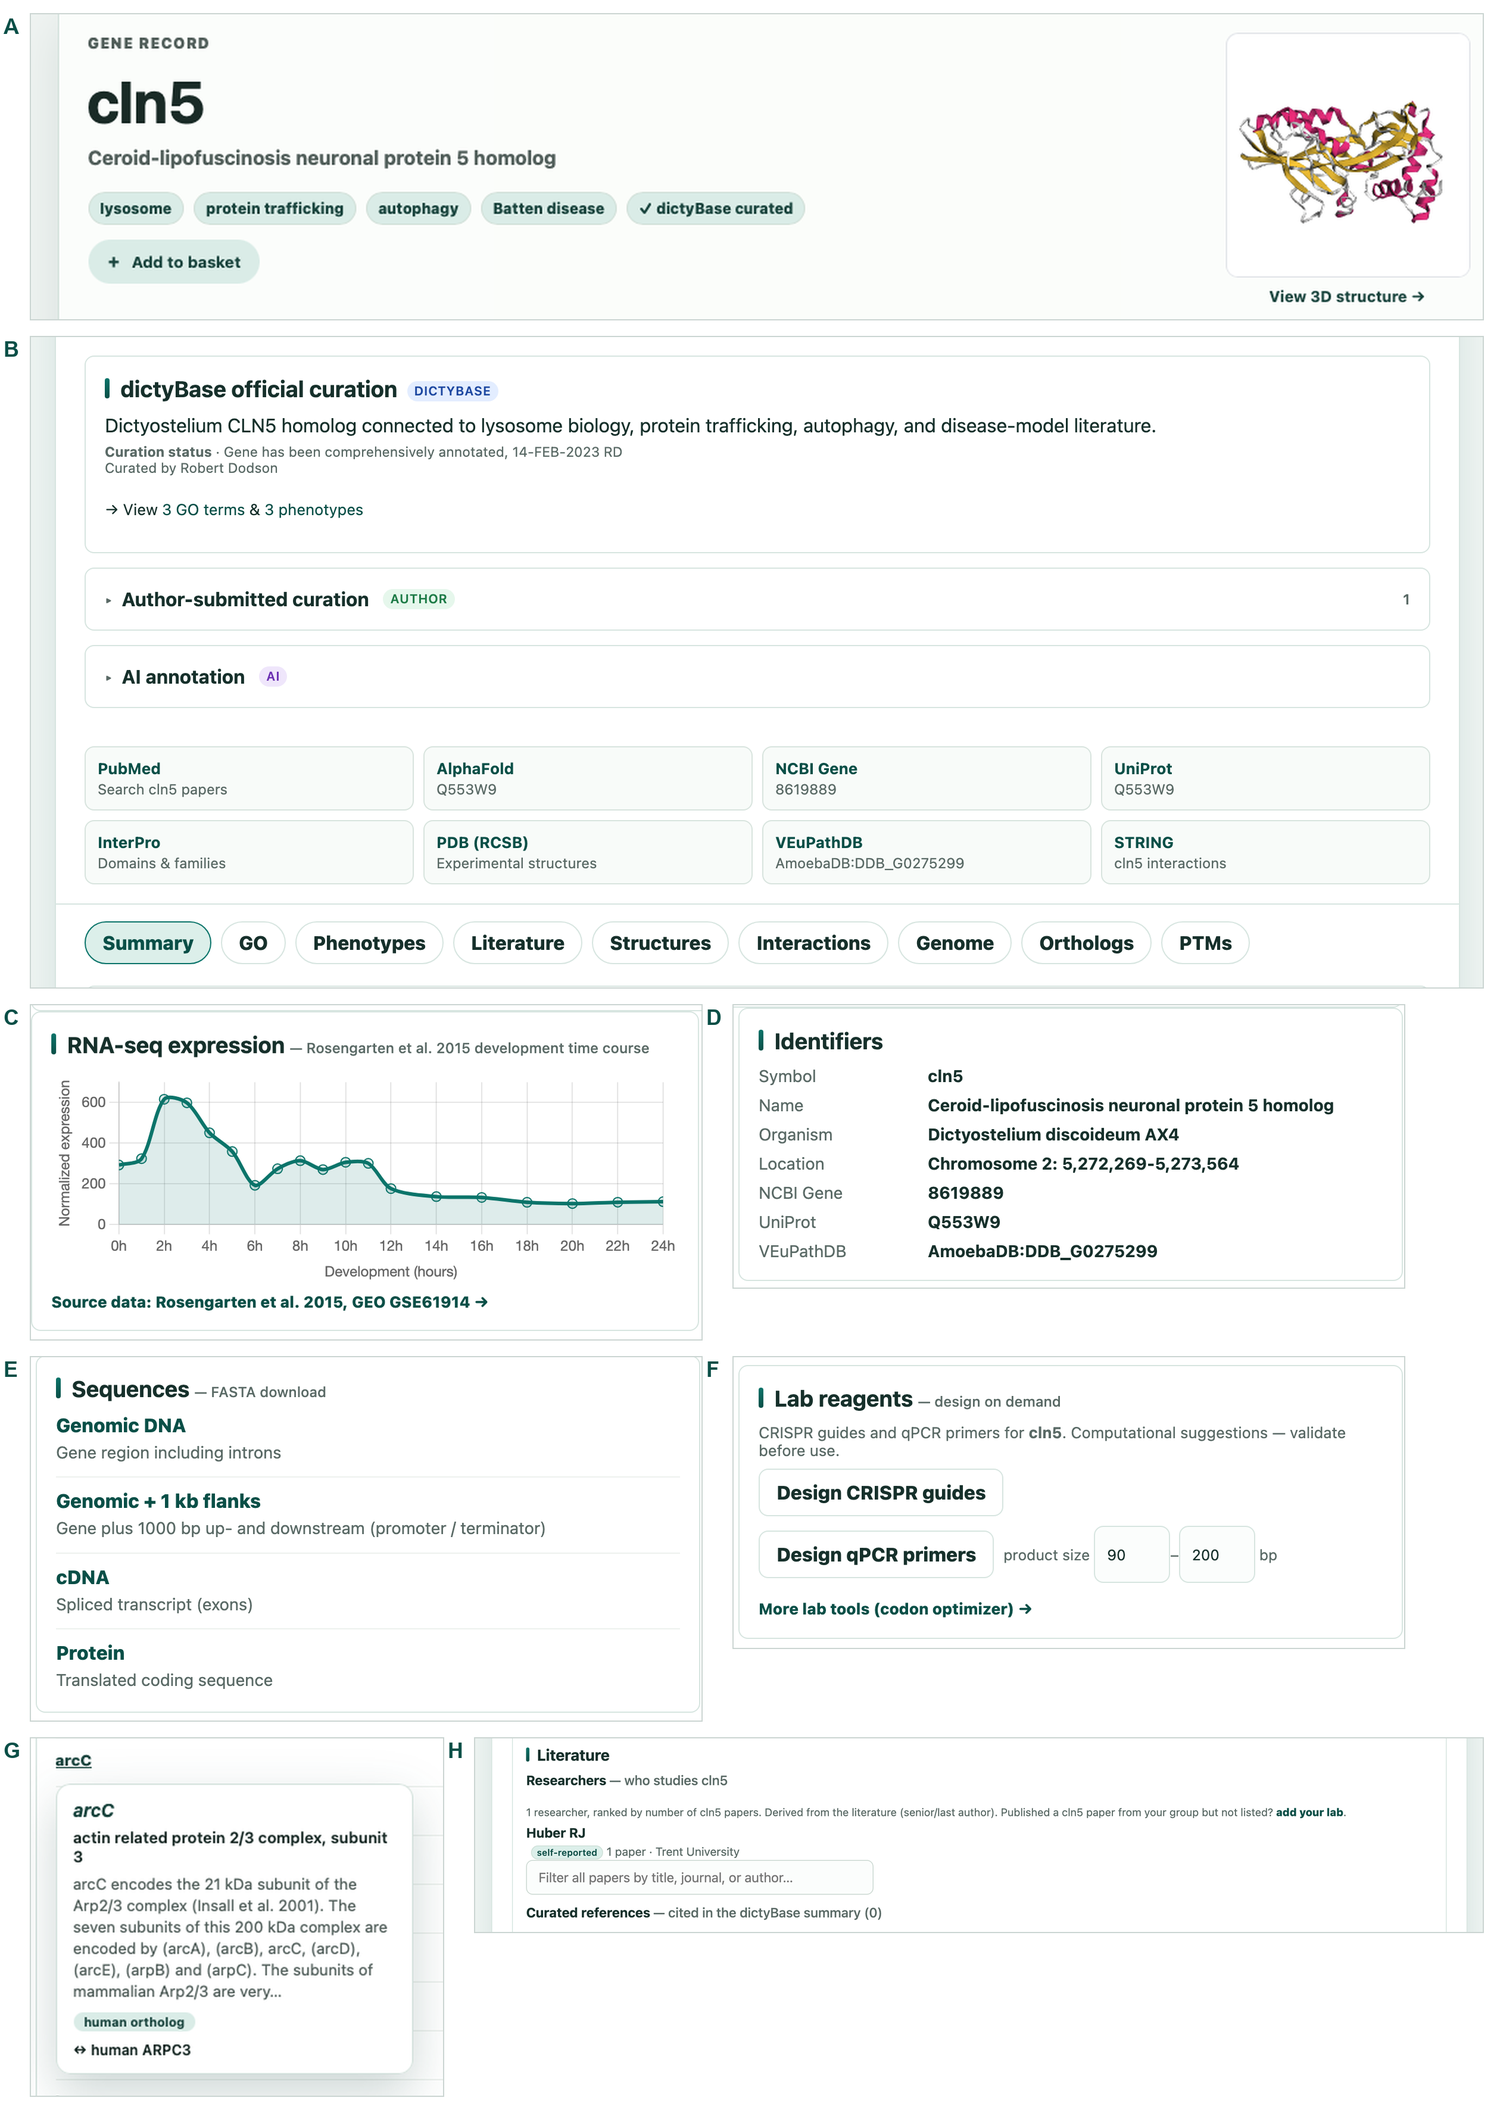
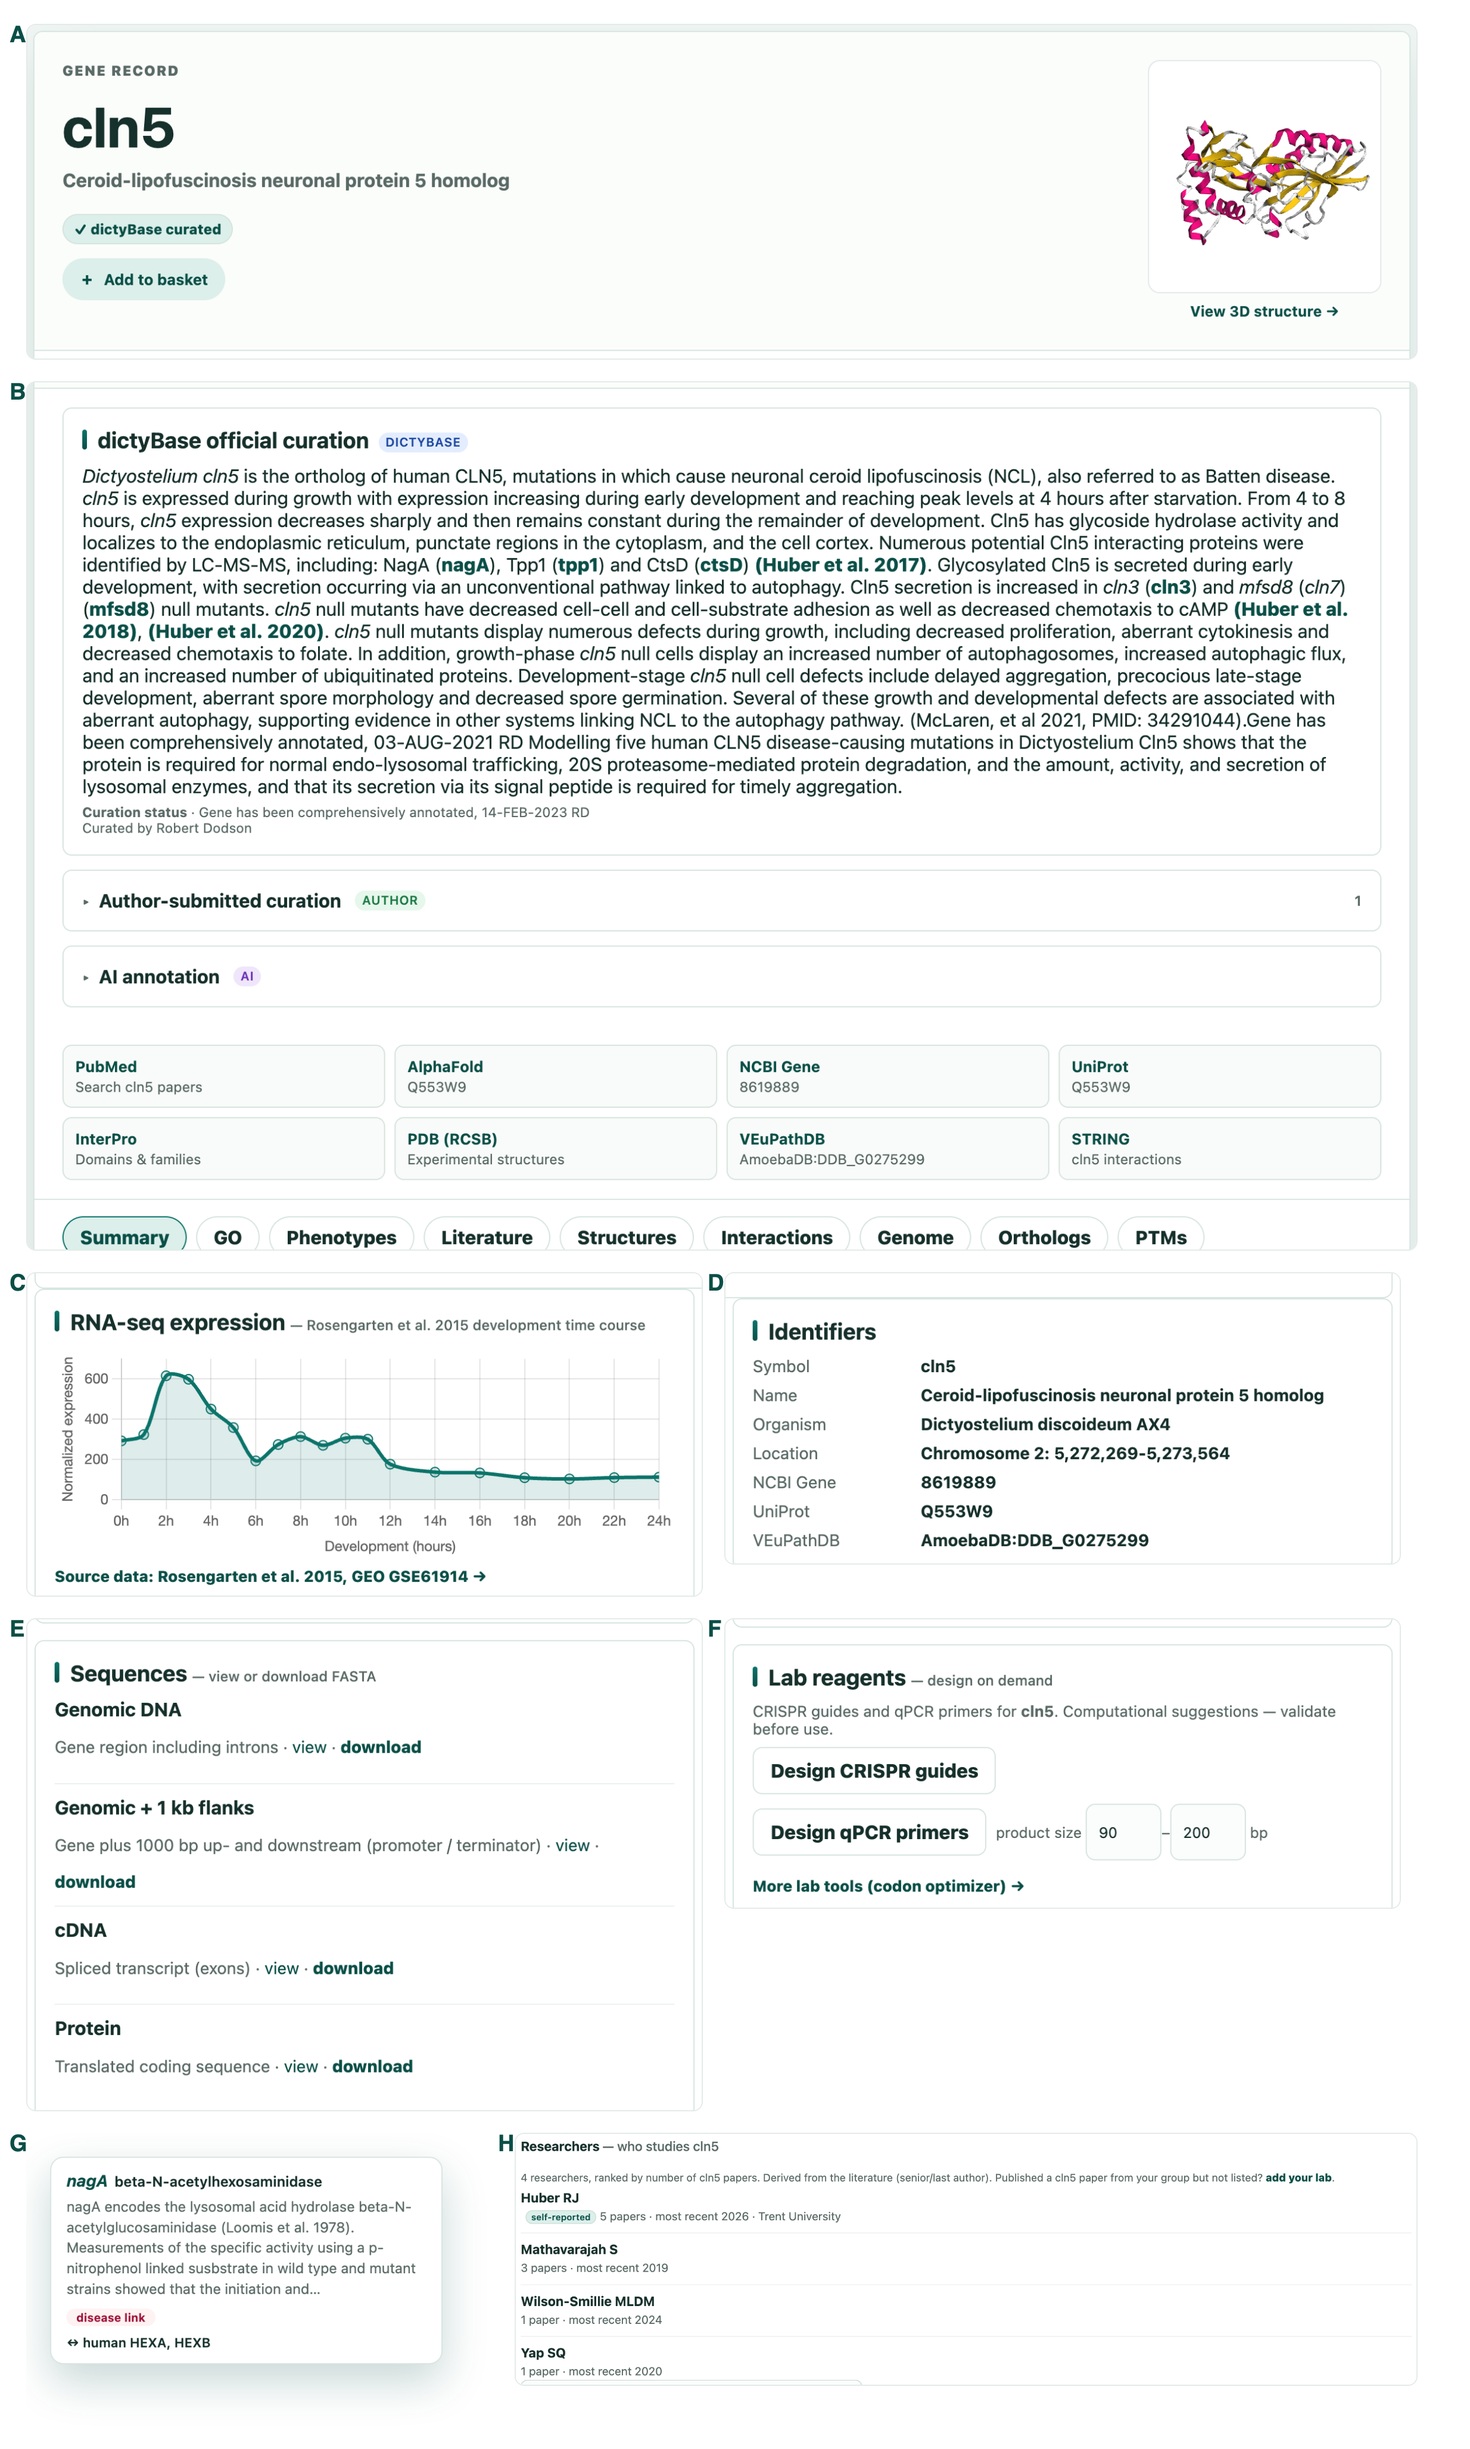
figure 3: regenerate from the corrected cln5 record
The figure dated from 13 August, before two fixes landed: featured-gene
seed records were shadowing real curation (cln5 among them), and a batch
import had truncated five gene summaries. Panel B therefore showed a
118-character placeholder blurb where the record actually carries 2,131
characters of curation, 3 GO terms where it has 18, and 0 curated
references where it has 3. Panel H showed 1 researcher; there are now 4.

Adds scripts/build_figure3.py so the montage is reproducible instead of
hand-assembled. Two non-obvious things it handles: headless Chrome needs
swiftshader or the AlphaFold viewer never paints, and the hovercard only
exists on hover, so panel G is re-rendered from the live gene-card payload
using the site's own stylesheet.

diff --git a/scripts/build_figure3.py b/scripts/build_figure3.py
@@ -1,0 +1,159 @@
+#!/usr/bin/env python3
+"""Rebuild the NAR Figure 3 panel montage (the cln5 gene record).
+
+Captures the live gene record with headless Chrome, crops the eight panels, and
+composites them with A-H labels. Re-run after any change to the record layout or
+to cln5's curation, so the figure never drifts from what the site serves.
+
+    python3 scripts/build_figure3.py [--base https://dicty.org] [--out docs]
+
+Two things that cost an afternoon to work out, so do not remove them:
+  * WebGL is off in headless Chrome by default, so the AlphaFold viewer renders
+    as "Loading structure...". --use-gl=angle --use-angle=swiftshader fixes it.
+  * The hovercard (panel G) only exists on hover, which the screenshot flags
+    cannot trigger. It is re-rendered from the live /api/gene-card payload using
+    the site's own stylesheet, so the result is the real component, not a mockup.
+
+Panel rectangles are read from the DOM at capture time rather than hardcoded;
+if the layout shifts, the crops follow it.
+"""
+
+import argparse
+import json
+import os
+import re
+import subprocess
+import sys
+import tempfile
+import urllib.request
+
+CHROME = "/Applications/Google Chrome.app/Contents/MacOS/Google Chrome"
+SCALE = 2
+VIEWPORT_W = 1280
+
+# panel -> (css selector or text probe). Order is the montage order.
+PANELS = ["A", "B", "C", "D", "E", "F", "G", "H"]
+
+# Rects measured from the DOM (CSS px, document coords). Filled by --probe, or
+# use the defaults below, which match the current record layout.
+DEFAULT_RECTS = {
+    "A": (51, 153, 1178, 274),
+    "B": (51, 427, 1178, 731),
+    "C": (75, 1330, 558, 266),
+    "D": (647, 1328, 558, 233),
+    "E": (647, 1575, 558, 403),
+    "F": (647, 1993, 558, 232),
+    "H": (92, 1239, 1096, 297),      # on ?tab=Literature
+}
+
+MONTAGE_CSS = """
+body{margin:0;background:#fff;padding:20px 22px;width:1190px;
+     font:14px/1.4 -apple-system,system-ui,"Segoe UI",Helvetica,Arial,sans-serif;color:#1a2b3c}
+.row{display:flex;gap:18px;margin-bottom:18px;align-items:flex-start}
+.cell{position:relative;flex:0 0 auto}
+.lab{position:absolute;left:-14px;top:-4px;font-weight:700;font-size:19px;color:#0a4f47;
+     font-family:Helvetica,Arial,sans-serif}
+img{display:block;border:1px solid #e3ebe9;border-radius:8px}
+.full img{width:1166px}.half img{width:566px}.g img{width:392px;border:none}.h img{width:756px}
+"""
+
+
+def chrome(url, out_png, w, h, webgl=False, budget=45000):
+    args = [CHROME, "--headless=new", "--hide-scrollbars",
+            f"--window-size={w},{h}", f"--force-device-scale-factor={SCALE}",
+            f"--virtual-time-budget={budget}", f"--screenshot={out_png}"]
+    if webgl:
+        args[2:2] = ["--use-gl=angle", "--use-angle=swiftshader", "--enable-unsafe-swiftshader"]
+    else:
+        args.insert(2, "--disable-gpu")
+    args += ["--allow-file-access-from-files", url]
+    subprocess.run(args, check=True, capture_output=True)
+
+
+def crop(src, dst, rect, padx=6, padt=6):
+    from PIL import Image
+    x, y, w, h = rect
+    im = Image.open(src)
+    im.crop(((x - padx) * SCALE, (y - padt) * SCALE,
+             (x + w + padx) * SCALE, (y + h + padx) * SCALE)).save(dst)
+
+
+def hovercard_png(base, tmp, gene="nagA"):
+    """Re-render the hovercard from live data with the site's own CSS."""
+    from PIL import Image
+    card = json.load(urllib.request.urlopen(f"{base}/api/gene-card?id={gene}", timeout=30))
+    css = urllib.request.urlopen(f"{base}/styles.css", timeout=30).read().decode("utf-8", "replace")
+    open(os.path.join(tmp, "styles.css"), "w").write(css)
+    human = ", ".join(card.get("human") or [])
+    badges = ""
+    if card.get("disease"):
+        badges = '<div class="hc-badges"><span class="hc-badge hc-dis">disease link</span></div>'
+    html = f"""<!doctype html><meta charset="utf-8"><link rel="stylesheet" href="styles.css">
+<style>body{{margin:0;background:#fff;padding:22px;font-family:-apple-system,system-ui,sans-serif}}
+.hovercard{{position:static!important;visibility:visible!important;display:block;width:360px}}</style>
+<div class="hovercard" style="visibility:visible">
+<div class="hc-head"><strong>{card['symbol']}</strong> <span class="hc-name">{card['name']}</span></div>
+<p class="hc-summary">{card['summary']}</p>{badges}
+<div class="hc-human">&#8596; human {human}</div></div>"""
+    p = os.path.join(tmp, "hovercard.html")
+    open(p, "w").write(html)
+    chrome("file://" + p, os.path.join(tmp, "g_raw.png"), 440, 340, budget=4000)
+    im = Image.open(os.path.join(tmp, "g_raw.png")).convert("RGB")
+    bg, px, (W, H) = im.getpixel((2, 2)), im.load(), im.size
+    cb = lambda x: all(px[x, y] == bg for y in range(0, H, 3))
+    rb = lambda y: all(px[x, y] == bg for x in range(0, W, 3))
+    l = next(i for i in range(W) if not cb(i)); r = next(i for i in range(W - 1, 0, -1) if not cb(i))
+    t = next(i for i in range(H) if not rb(i)); b = next(i for i in range(H - 1, 0, -1) if not rb(i))
+    pad = 14
+    im.crop((max(0, l - pad), max(0, t - pad), min(W, r + pad), min(H, b + pad))).save(
+        os.path.join(tmp, "panelG.png"))
+
+
+def main():
+    ap = argparse.ArgumentParser()
+    ap.add_argument("--base", default="https://dicty.org")
+    ap.add_argument("--gene", default="cln5")
+    ap.add_argument("--out", default=os.path.join(os.path.dirname(__file__), "..", "docs"))
+    a = ap.parse_args()
+    from PIL import Image
+    out = os.path.abspath(a.out)
+    tmp = tempfile.mkdtemp(prefix="fig3-")
+
+    # 1. summary tab, with WebGL so the AlphaFold viewer paints
+    chrome(f"{a.base}/gene/{a.gene}", os.path.join(tmp, "full.png"), VIEWPORT_W, 3040, webgl=True)
+    for k in ("A", "B", "C", "D", "E", "F"):
+        padt = 0 if k == "C" else 6           # C butts against the gene-model block
+        crop(os.path.join(tmp, "full.png"), os.path.join(tmp, f"panel{k}.png"),
+             DEFAULT_RECTS[k], padt=padt)
+
+    # 2. literature tab for panel H
+    chrome(f"{a.base}/gene/{a.gene}?tab=Literature", os.path.join(tmp, "lit.png"), VIEWPORT_W, 3000)
+    crop(os.path.join(tmp, "lit.png"), os.path.join(tmp, "panelH.png"), DEFAULT_RECTS["H"])
+
+    # 3. hovercard
+    hovercard_png(a.base, tmp)
+
+    # 4. montage
+    rows = ('<div class="row full"><div class="cell"><span class="lab">A</span><img src="panelA.png"></div></div>'
+            '<div class="row full"><div class="cell"><span class="lab">B</span><img src="panelB.png"></div></div>'
+            '<div class="row"><div class="cell half"><span class="lab">C</span><img src="panelC.png"></div>'
+            '<div class="cell half"><span class="lab">D</span><img src="panelD.png"></div></div>'
+            '<div class="row"><div class="cell half"><span class="lab">E</span><img src="panelE.png"></div>'
+            '<div class="cell half"><span class="lab">F</span><img src="panelF.png"></div></div>'
+            '<div class="row"><div class="cell g"><span class="lab">G</span><img src="panelG.png"></div>'
+            '<div class="cell h"><span class="lab">H</span><img src="panelH.png"></div></div>')
+    m = os.path.join(tmp, "montage.html")
+    open(m, "w").write(f'<!doctype html><meta charset="utf-8"><style>{MONTAGE_CSS}</style>{rows}')
+    chrome("file://" + m, os.path.join(tmp, "raw.png"), 1234, 2400, budget=6000)
+
+    im = Image.open(os.path.join(tmp, "raw.png")).convert("RGB")
+    px, (W, H) = im.load(), im.size
+    b = next(y for y in range(H - 1, 0, -1)
+             if not all(px[x, y] == (255, 255, 255) for x in range(0, W, 4)))
+    dst = os.path.join(out, "figure3-gene-record.png")
+    im.crop((0, 0, W, min(H, b + 40))).save(dst)
+    print(f"wrote {dst}  {Image.open(dst).size}")
+
+
+if __name__ == "__main__":
+    main()
